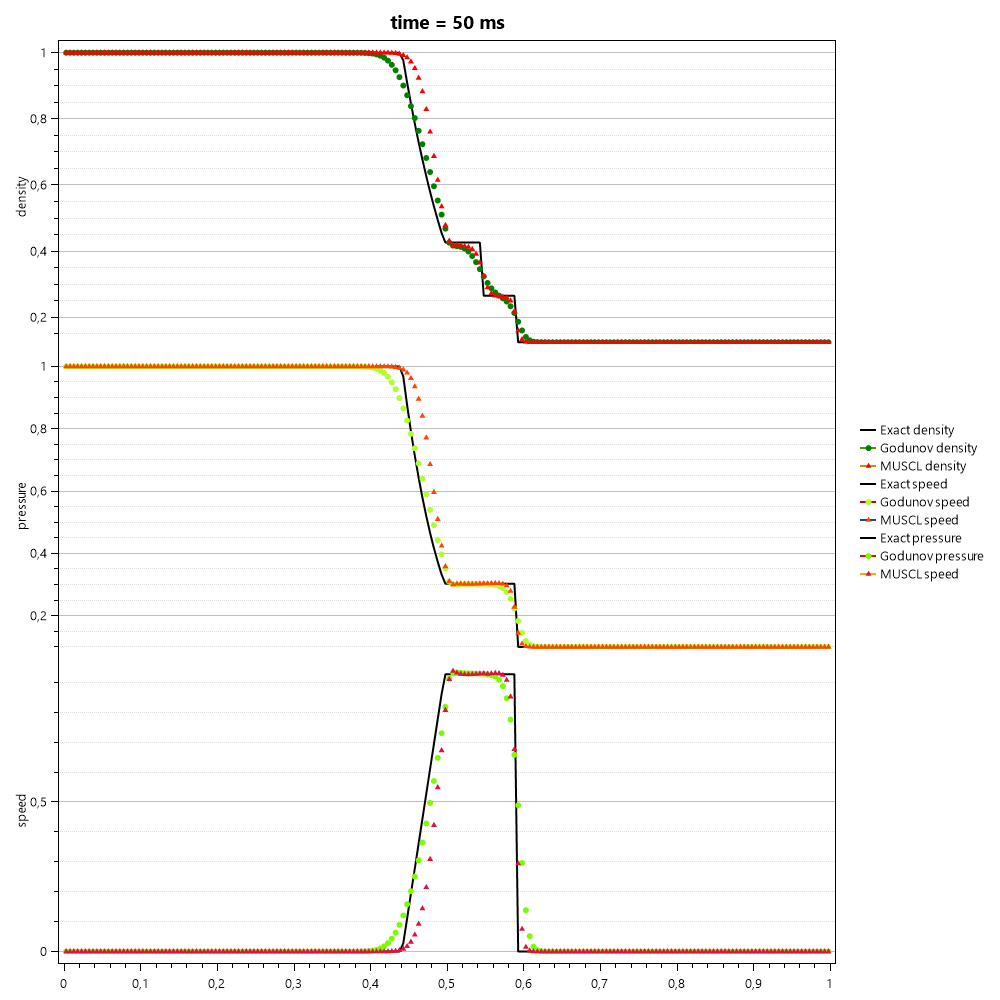
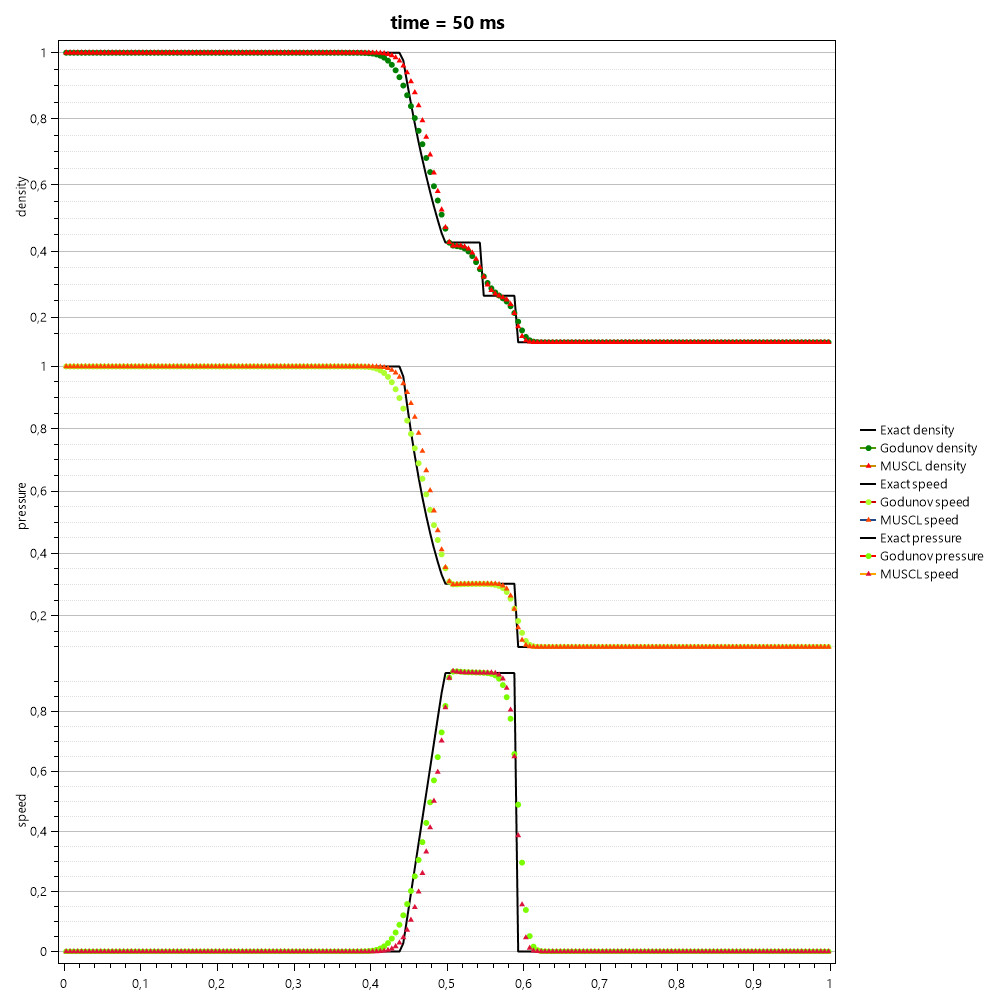
minmiod chas mod

diff --git a/CFL/minmod.cs b/CFL/minmod.cs
@@ -23,7 +23,7 @@ namespace Sod.CFL
         }
 
 
-        public double[,] CalculateWrite(string result_name_file, bool write = true, int presision = 3, double CFL = 0.2)
+        public double[,] CalculateWrite(string result_name_file, bool write = true, int presision = 3, double CFL = 0.2, bool modified= false)
         {
             int boundary = 1;
             result_name_file += "minmod_";
@@ -238,8 +238,10 @@ namespace Sod.CFL
                     for (int j = 0; j < M; j++)
                     {
                         //CHasovskoy Scheme
-                        //u_next[i, j] = (0.8 * u_next[i, j] + 0.2 * (u_prev[i, j] - dt * (flux_right[j] - flux_left[j]) / (x[i + 1] - x[i])));
-                        u_next[i, j] = u_prev[i, j] - dt * (flux_right[j] - flux_left[j]) / (x[i + 1] - x[i]);
+                        if (modified)
+                            u_next[i, j] = (0.5 * u_next[i, j] + 0.5 * (u_prev[i, j] - dt * (flux_right[j] - flux_left[j]) / (x[i + 1] - x[i])));
+                        else
+                            u_next[i, j] = u_prev[i, j] - dt * (flux_right[j] - flux_left[j]) / (x[i + 1] - x[i]);
                     }
                 }
 

diff --git a/Program.cs b/Program.cs
@@ -13,10 +13,10 @@ namespace Sod
         static void Main()
         {
 
-            int N = 200;
+            int N = 400;
             string result_name_file = $"";
             double gamma = 1.4;
-            double time = 0.05;
+            double time = 0.1;
 
             // Sod, Modified Sod, 2 vacuum waves, Big gradient, 3 breaks
             double[,] left = { { 1, 0, 1 }, { 1.0, 0.75, 1.0 }, { 1.0, -2.0, 0.4 }, { 1.0, 0.0, 1000.0 }, { 5.99924, 19.5975, 460.894 } };
@@ -41,7 +41,7 @@ namespace Sod
                 var g = gg.CalculateWrite(result_name_file + "Test " + i.ToString() + " ",false, 3, 0.2);
 
                 var mm = new Minmod(param);
-                var m = mm.CalculateWrite(result_name_file + "Test " + i.ToString() + " ", false, 3, 0.2);
+                var m = mm.CalculateWrite(result_name_file + "Test " + i.ToString() + " ", false, 3, 0.2,true);
 
                 Plots.PlotBoth(param, g, m, "Test " + i.ToString() + " ","Godunov","MUSCL");
             }
